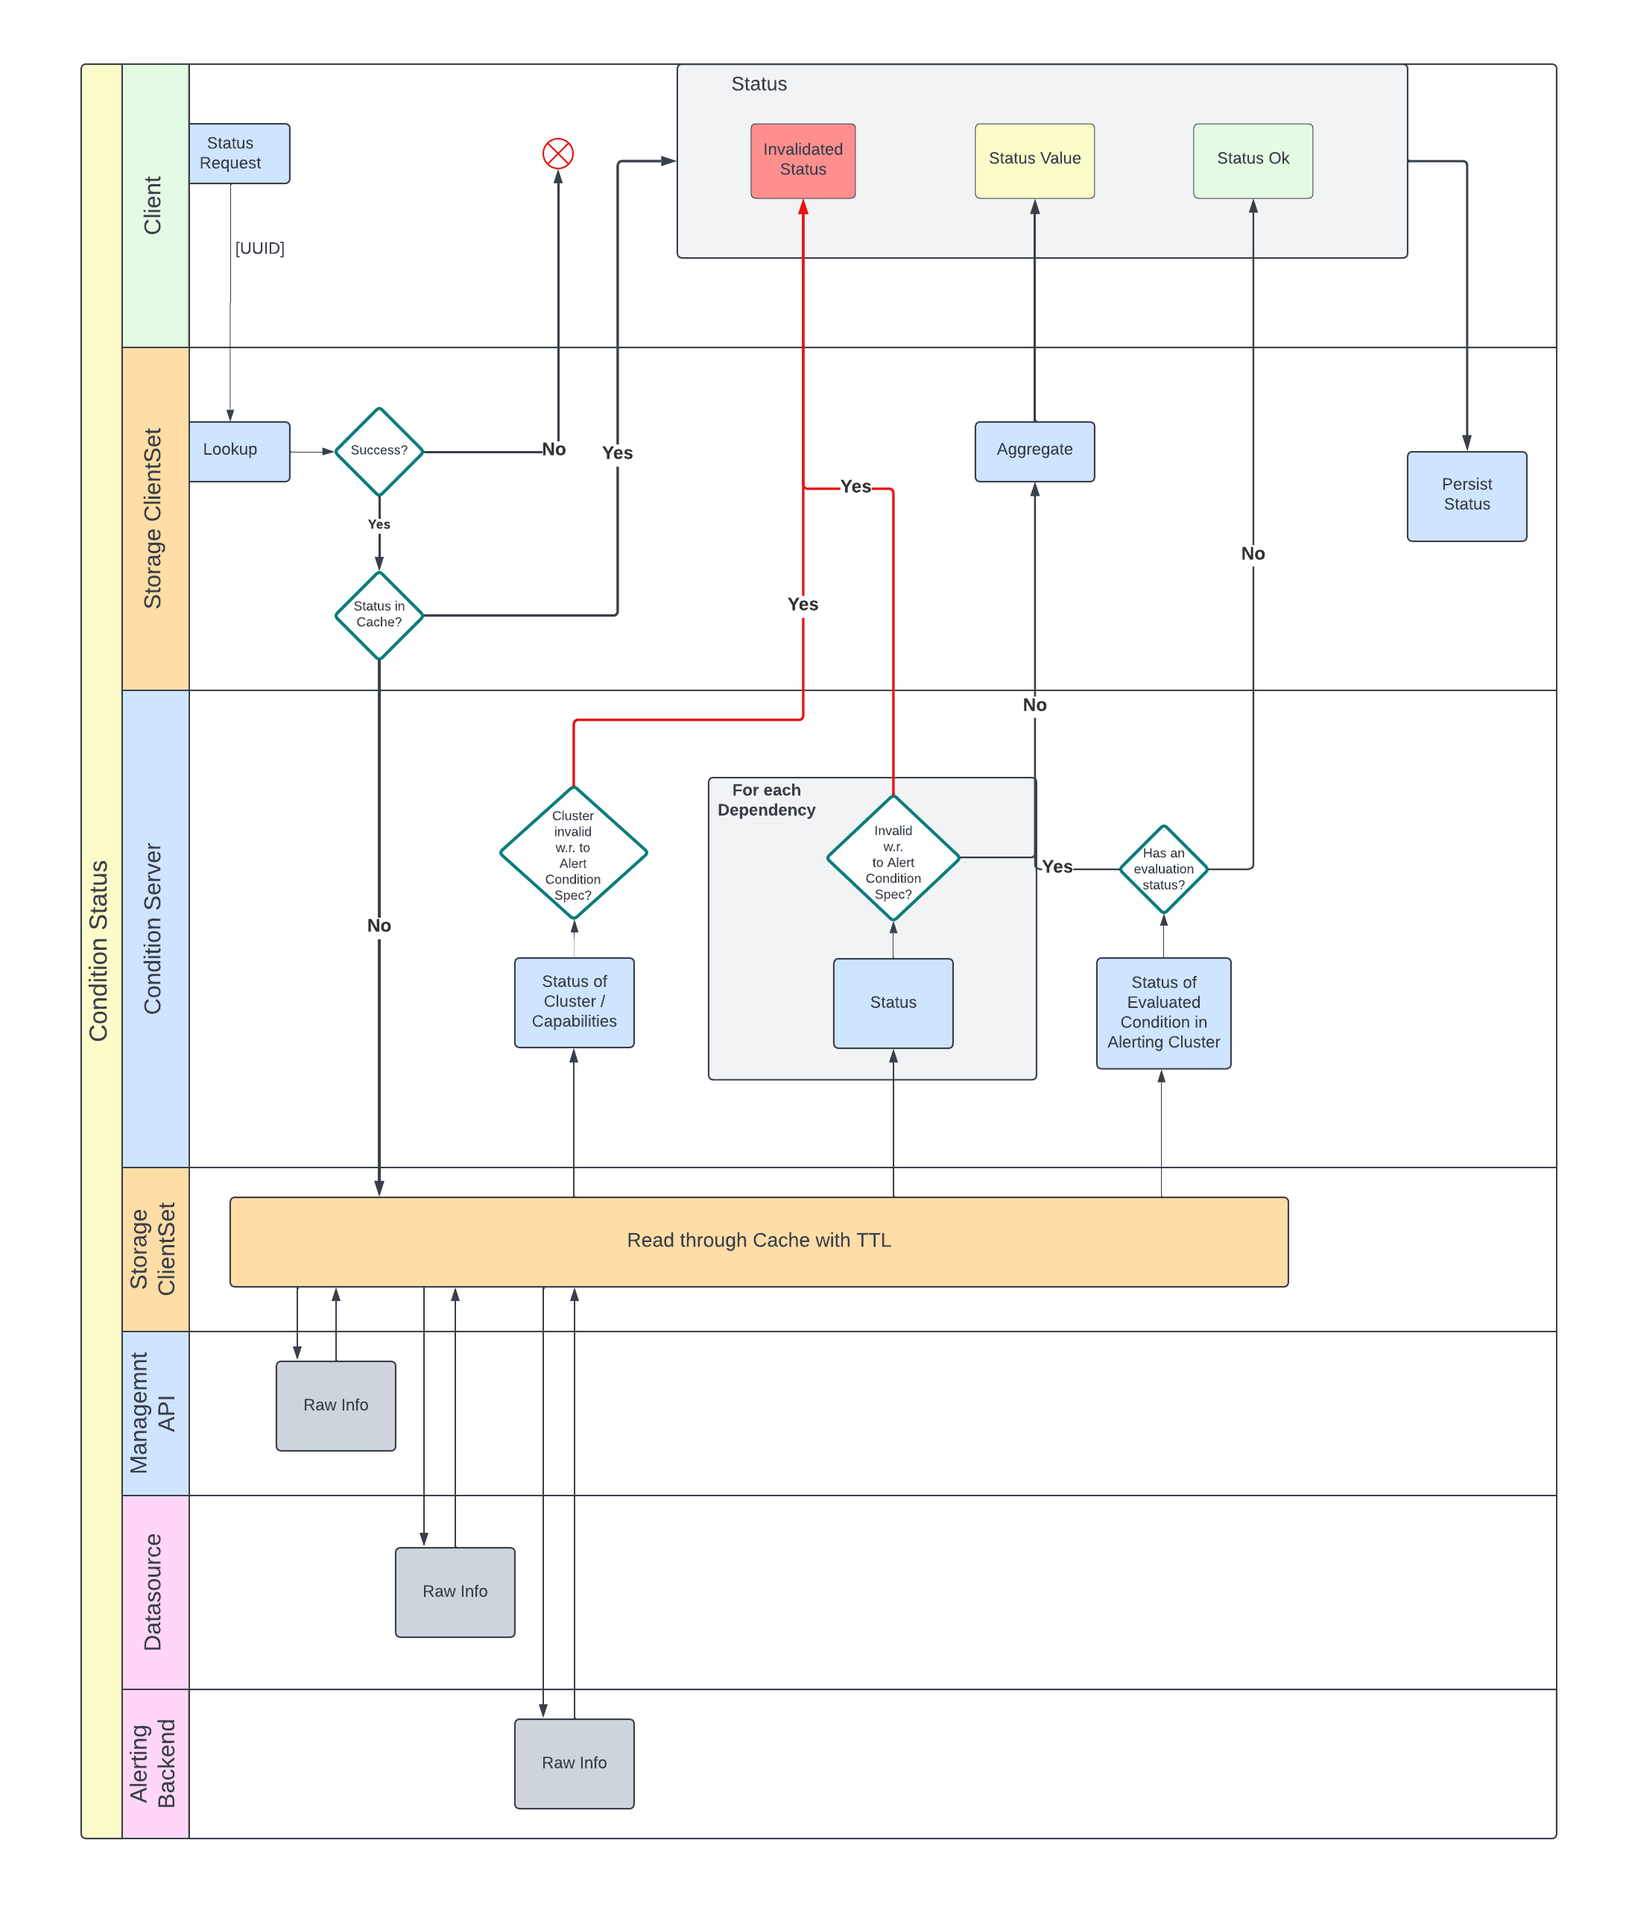
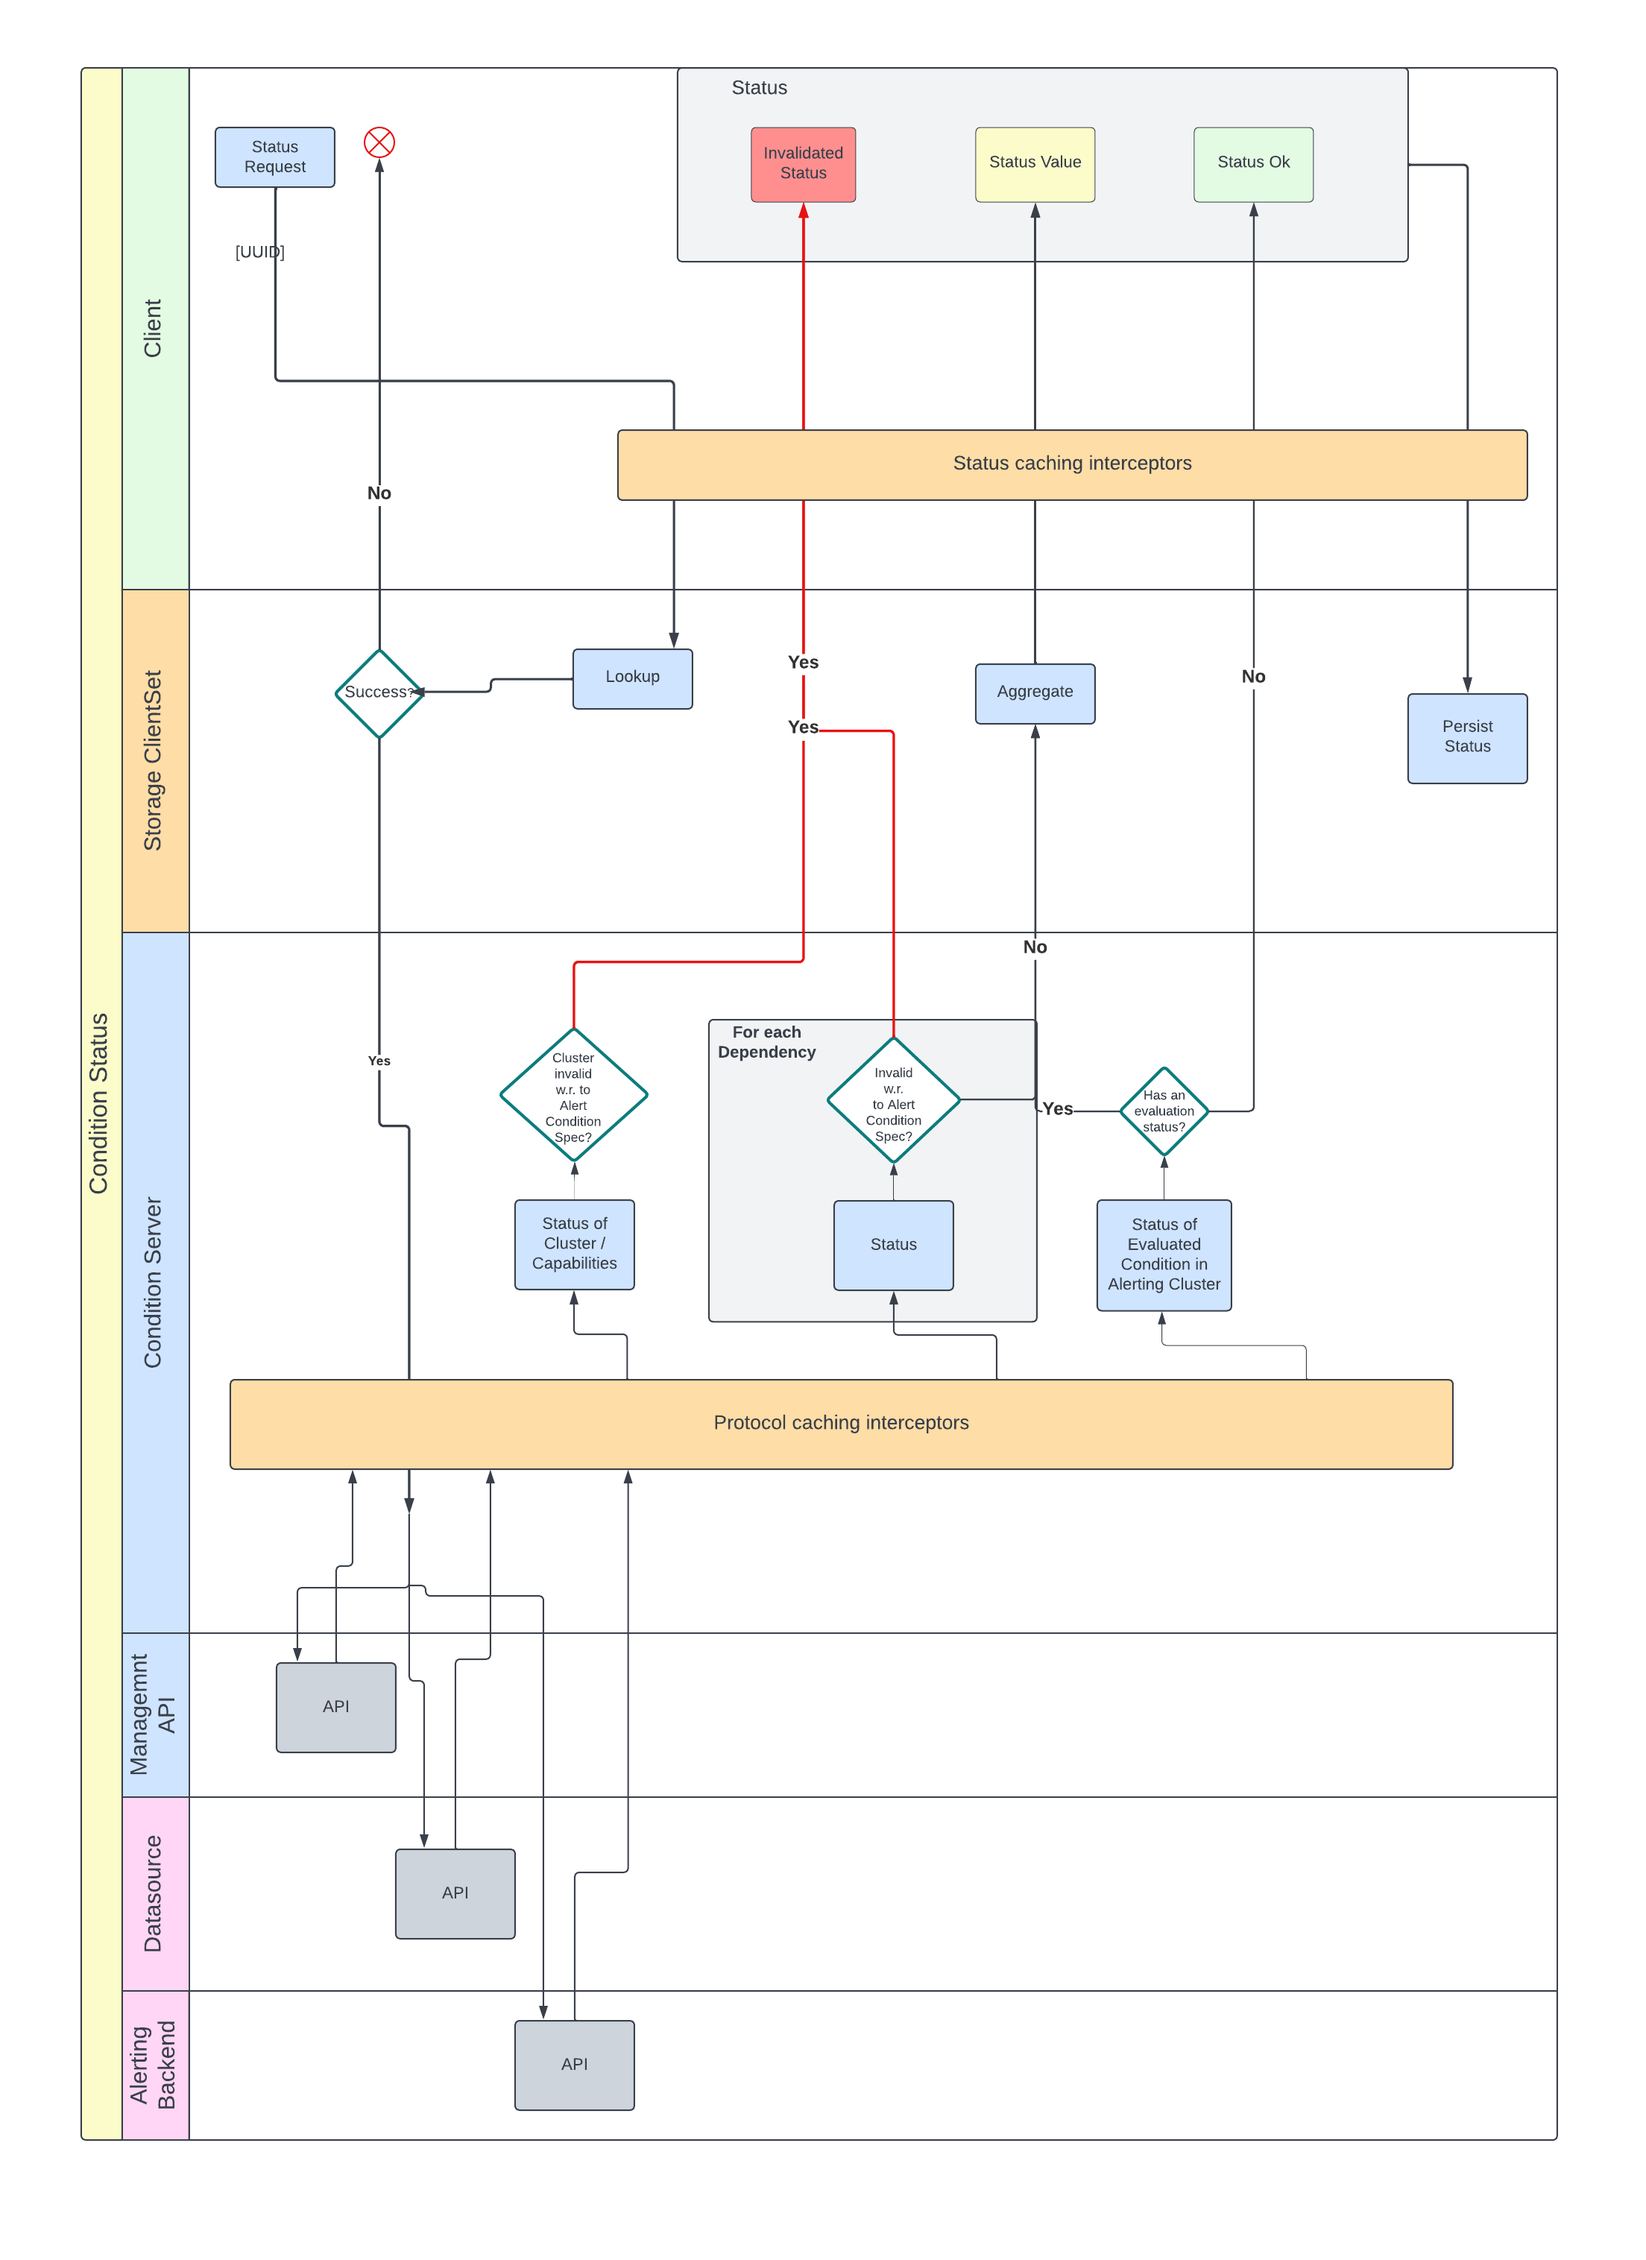
implementation details

diff --git a/enhancements/alerting/20230124-status-optimizations.md b/enhancements/alerting/20230124-status-optimizations.md
@@ -33,13 +33,32 @@ In addition, calls to a particular Alarm's status are cached to avoid traversing
 
 The new `ListStatus` API handles listing the Condition Specs and Getting the Status in the same operation for both convenience and performance.
 
+#### Caching
+
+Caching will be implemented using interceptors over the protocols Opni uses
+
+##### GRPC
+
+- delegate caching to a GRPC `unary interceptor` registered to gateway totem server, to have a caching mechanism available for all RPCs
+- api's handle their own caching via setting trailers with metadata that tells the interceptors whether or not to cache
+- definitions & helper methods for GRPC caching interceptors will go in `pkg/util/grpc.go`
+
+#### HTTP
+
+- standard library `net/http` transport layer for caching implementation, similar to https://pkg.go.dev/github.com/gregjones/httpcache#Cache
+- definitions & helper methods for HTTP caching interceptors will go in `pkg/util/http.go`
+
 ![](./images/alerting/condition-status-cache.png)
+
+####
 
 ## Acceptance criteria
 
-- [ ] Extend the Storage ClientSet with an in memory cache to cache calls to APIS
-- [ ] Serve a read-through cache for Status
+- [ ] Implement generic GRPC caching interceptors
+- [ ] Implement generic HTTP caching interceptors
+- [ ] Attach caching interceptors on specific protocol calls needed for Status() API
 - [ ] `ListStatus()` ConditionServer API which batches ListConditions() & Status() calls.
+- [ ] Attach caching interceptor implementations (read-through refresh interval) on both `Status()` and `ListStatus()`
 
 ## Supporting documents
 
@@ -47,7 +66,7 @@ Addresses https://github.com/rancher/opni/wiki/Alerting-Condition-Server#perform
 
 ## Dependencies
 
-- [ ] Alerting Storage ClientSet : https://github.com/rancher/opni/pull/942
+None
 
 ## Risks and contingencies
 
@@ -57,11 +76,12 @@ Addresses https://github.com/rancher/opni/wiki/Alerting-Condition-Server#perform
 
 ## Level of effort
 
-1 week:
+~ 2 weeks
 
-- day 1 to 3 : Setting up generic & reusable API call cache
-- day 4 : Implementing API logic
-- day 5 : Performance & scalability tests
+- 3 days cache interceptor definitions
+- 3 days cache interceptor implementations on APIs
+- 2 days `ListStatus` API
+- 1-2 days explicit load testing & tweaking caches
 
 ## Resources
 
